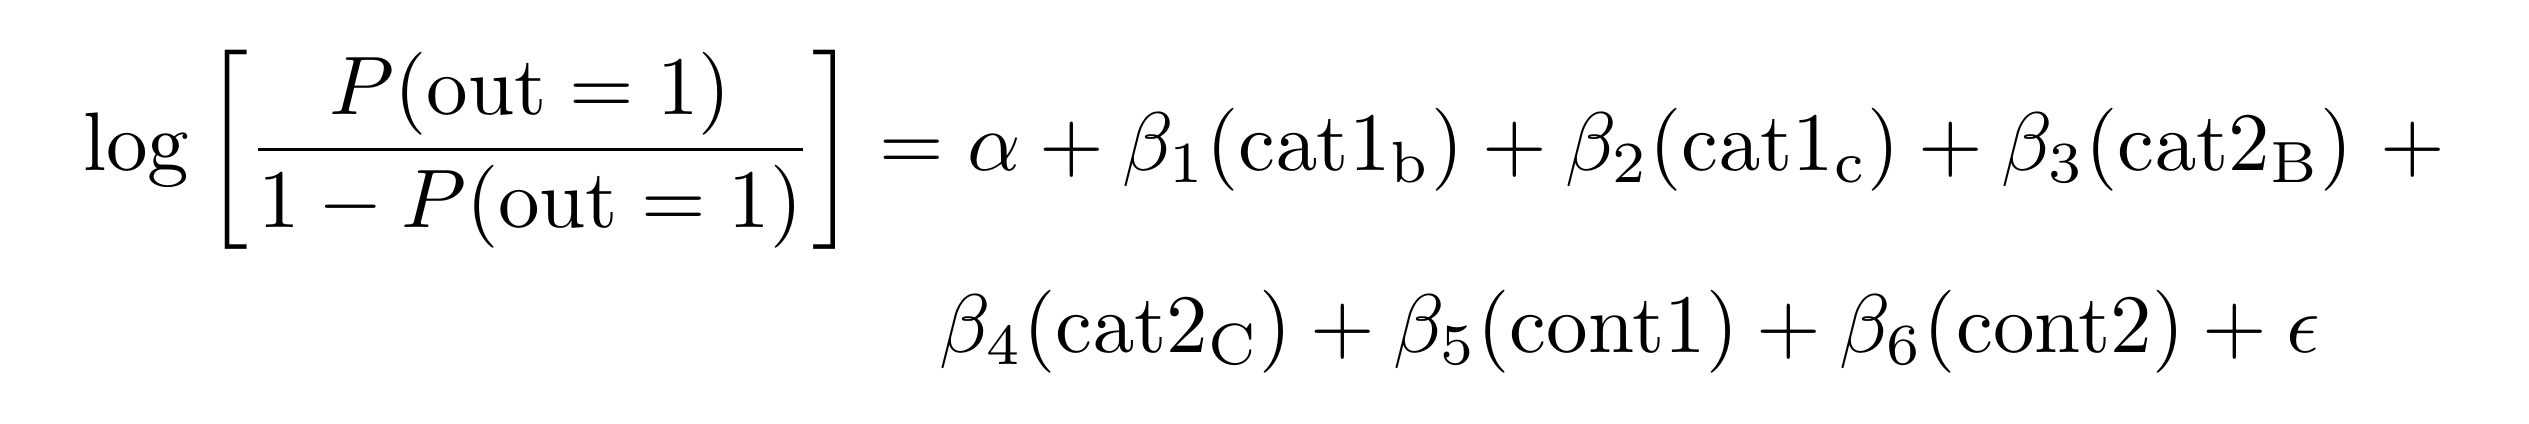
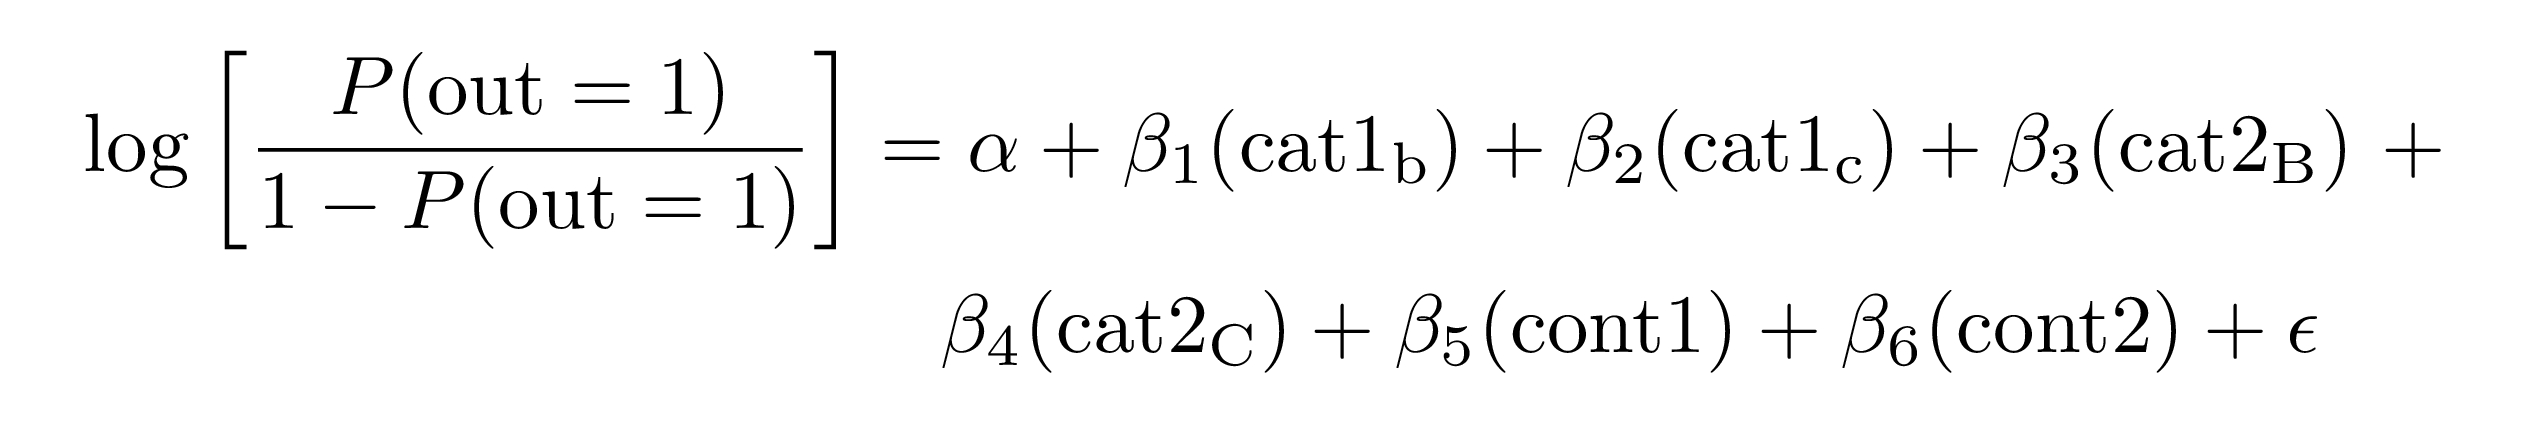
Switch all \text{}s to \operatorname{} because #57

diff --git a/README.md b/README.md
@@ -50,7 +50,7 @@ mod1 <- lm(mpg ~ cyl + disp, mtcars)
 # Give the results to extract_eq
 extract_eq(mod1)
 #> $$
-#> \text{mpg} = \alpha + \beta_{1}(\text{cyl}) + \beta_{2}(\text{disp}) + \epsilon
+#> \operatorname{mpg} = \alpha + \beta_{1}(\operatorname{cyl}) + \beta_{2}(\operatorname{disp}) + \epsilon
 #> $$
 ```
 
@@ -63,7 +63,7 @@ syntax:
 mod2 <- lm(mpg ~ ., mtcars)
 extract_eq(mod2)
 #> $$
-#> \text{mpg} = \alpha + \beta_{1}(\text{cyl}) + \beta_{2}(\text{disp}) + \beta_{3}(\text{hp}) + \beta_{4}(\text{drat}) + \beta_{5}(\text{wt}) + \beta_{6}(\text{qsec}) + \beta_{7}(\text{vs}) + \beta_{8}(\text{am}) + \beta_{9}(\text{gear}) + \beta_{10}(\text{carb}) + \epsilon
+#> \operatorname{mpg} = \alpha + \beta_{1}(\operatorname{cyl}) + \beta_{2}(\operatorname{disp}) + \beta_{3}(\operatorname{hp}) + \beta_{4}(\operatorname{drat}) + \beta_{5}(\operatorname{wt}) + \beta_{6}(\operatorname{qsec}) + \beta_{7}(\operatorname{vs}) + \beta_{8}(\operatorname{am}) + \beta_{9}(\operatorname{gear}) + \beta_{10}(\operatorname{carb}) + \epsilon
 #> $$
 ```
 
@@ -76,7 +76,7 @@ variables as subscripts:
 mod3 <- lm(Sepal.Length ~ Sepal.Width + Species, iris)
 extract_eq(mod3)
 #> $$
-#> \text{Sepal.Length} = \alpha + \beta_{1}(\text{Sepal.Width}) + \beta_{2}(\text{Species}_{\text{versicolor}}) + \beta_{3}(\text{Species}_{\text{virginica}}) + \epsilon
+#> \operatorname{Sepal.Length} = \alpha + \beta_{1}(\operatorname{Sepal.Width}) + \beta_{2}(\operatorname{Species}_{\operatorname{versicolor}}) + \beta_{3}(\operatorname{Species}_{\operatorname{virginica}}) + \epsilon
 #> $$
 ```
 
@@ -95,7 +95,7 @@ d <- data.frame(cat1 = rep(letters[1:3], 100),
 mod4 <- lm(out ~ cont1 + cat2 + cont2 + cat1, d)
 extract_eq(mod4)
 #> $$
-#> \text{out} = \alpha + \beta_{1}(\text{cont1}) + \beta_{2}(\text{cat2}_{\text{B}}) + \beta_{3}(\text{cat2}_{\text{C}}) + \beta_{4}(\text{cont2}) + \beta_{5}(\text{cat1}_{\text{b}}) + \beta_{6}(\text{cat1}_{\text{c}}) + \epsilon
+#> \operatorname{out} = \alpha + \beta_{1}(\operatorname{cont1}) + \beta_{2}(\operatorname{cat2}_{\operatorname{B}}) + \beta_{3}(\operatorname{cat2}_{\operatorname{C}}) + \beta_{4}(\operatorname{cont2}) + \beta_{5}(\operatorname{cat1}_{\operatorname{b}}) + \beta_{6}(\operatorname{cat1}_{\operatorname{c}}) + \epsilon
 #> $$
 ```
 
@@ -111,9 +111,9 @@ the right-hand side of the equation using `terms_per_line` (defaults to
 extract_eq(mod2, wrap = TRUE)
 #> $$
 #> \begin{aligned}
-#> \text{mpg} &= \alpha + \beta_{1}(\text{cyl}) + \beta_{2}(\text{disp}) + \beta_{3}(\text{hp})\ + \\
-#> &\quad \beta_{4}(\text{drat}) + \beta_{5}(\text{wt}) + \beta_{6}(\text{qsec}) + \beta_{7}(\text{vs})\ + \\
-#> &\quad \beta_{8}(\text{am}) + \beta_{9}(\text{gear}) + \beta_{10}(\text{carb}) + \epsilon
+#> \operatorname{mpg} &= \alpha + \beta_{1}(\operatorname{cyl}) + \beta_{2}(\operatorname{disp}) + \beta_{3}(\operatorname{hp})\ + \\
+#> &\quad \beta_{4}(\operatorname{drat}) + \beta_{5}(\operatorname{wt}) + \beta_{6}(\operatorname{qsec}) + \beta_{7}(\operatorname{vs})\ + \\
+#> &\quad \beta_{8}(\operatorname{am}) + \beta_{9}(\operatorname{gear}) + \beta_{10}(\operatorname{carb}) + \epsilon
 #> \end{aligned}
 #> $$
 ```
@@ -124,8 +124,8 @@ extract_eq(mod2, wrap = TRUE)
 extract_eq(mod2, wrap = TRUE, terms_per_line = 6)
 #> $$
 #> \begin{aligned}
-#> \text{mpg} &= \alpha + \beta_{1}(\text{cyl}) + \beta_{2}(\text{disp}) + \beta_{3}(\text{hp}) + \beta_{4}(\text{drat}) + \beta_{5}(\text{wt})\ + \\
-#> &\quad \beta_{6}(\text{qsec}) + \beta_{7}(\text{vs}) + \beta_{8}(\text{am}) + \beta_{9}(\text{gear}) + \beta_{10}(\text{carb}) + \epsilon
+#> \operatorname{mpg} &= \alpha + \beta_{1}(\operatorname{cyl}) + \beta_{2}(\operatorname{disp}) + \beta_{3}(\operatorname{hp}) + \beta_{4}(\operatorname{drat}) + \beta_{5}(\operatorname{wt})\ + \\
+#> &\quad \beta_{6}(\operatorname{qsec}) + \beta_{7}(\operatorname{vs}) + \beta_{8}(\operatorname{am}) + \beta_{9}(\operatorname{gear}) + \beta_{10}(\operatorname{carb}) + \epsilon
 #> \end{aligned}
 #> $$
 ```
@@ -140,18 +140,18 @@ using `operator_location = "end"` or `operator_location = "start"`:
 extract_eq(mod2, wrap = TRUE, terms_per_line = 4, operator_location = "start")
 #> $$
 #> \begin{aligned}
-#> \text{mpg} &= \alpha + \beta_{1}(\text{cyl}) + \beta_{2}(\text{disp}) + \beta_{3}(\text{hp})\\
-#> &\quad + \beta_{4}(\text{drat}) + \beta_{5}(\text{wt}) + \beta_{6}(\text{qsec}) + \beta_{7}(\text{vs})\\
-#> &\quad + \beta_{8}(\text{am}) + \beta_{9}(\text{gear}) + \beta_{10}(\text{carb}) + \epsilon
+#> \operatorname{mpg} &= \alpha + \beta_{1}(\operatorname{cyl}) + \beta_{2}(\operatorname{disp}) + \beta_{3}(\operatorname{hp})\\
+#> &\quad + \beta_{4}(\operatorname{drat}) + \beta_{5}(\operatorname{wt}) + \beta_{6}(\operatorname{qsec}) + \beta_{7}(\operatorname{vs})\\
+#> &\quad + \beta_{8}(\operatorname{am}) + \beta_{9}(\operatorname{gear}) + \beta_{10}(\operatorname{carb}) + \epsilon
 #> \end{aligned}
 #> $$
 ```
 
 <img src="man/figures/README-example-wrap-longer-location-preview-1.png" width="100%" />
 
-By default, all text in the equation is wrapped in `\text{}`. You can
-optionally have the variables themselves be italicized (i.e. not be
-wrapped in `\text{}`) with `ital_vars = TRUE`:
+By default, all text in the equation is wrapped in `\operatorname{}`.
+You can optionally have the variables themselves be italicized (i.e. not
+be wrapped in `\operatorname{}`) with `ital_vars = TRUE`:
 
 ``` r
 extract_eq(mod2, wrap = TRUE, ital_vars = TRUE)
@@ -208,7 +208,7 @@ You can return actual numeric coefficients instead of Greek letters with
 ``` r
 extract_eq(mod1, use_coefs = TRUE)
 #> $$
-#> \text{mpg} = 34.66 - 1.59(\text{cyl}) - 0.02(\text{disp}) + \epsilon
+#> \operatorname{mpg} = 34.66 - 1.59(\operatorname{cyl}) - 0.02(\operatorname{disp}) + \epsilon
 #> $$
 ```
 
@@ -221,7 +221,7 @@ FALSE`:
 ``` r
 extract_eq(mod1, use_coefs = TRUE, fix_signs = FALSE)
 #> $$
-#> \text{mpg} = 34.66 + -1.59(\text{cyl}) + -0.02(\text{disp}) + \epsilon
+#> \operatorname{mpg} = 34.66 + -1.59(\operatorname{cyl}) + -0.02(\operatorname{disp}) + \epsilon
 #> $$
 ```
 
@@ -234,10 +234,10 @@ extract_eq(mod2, wrap = TRUE, terms_per_line = 3,
            use_coefs = TRUE, fix_signs = FALSE)
 #> $$
 #> \begin{aligned}
-#> \text{mpg} &= 12.3 + -0.11(\text{cyl}) + 0.01(\text{disp})\ + \\
-#> &\quad -0.02(\text{hp}) + 0.79(\text{drat}) + -3.72(\text{wt})\ + \\
-#> &\quad 0.82(\text{qsec}) + 0.32(\text{vs}) + 2.52(\text{am})\ + \\
-#> &\quad 0.66(\text{gear}) + -0.2(\text{carb}) + \epsilon
+#> \operatorname{mpg} &= 12.3 + -0.11(\operatorname{cyl}) + 0.01(\operatorname{disp})\ + \\
+#> &\quad -0.02(\operatorname{hp}) + 0.79(\operatorname{drat}) + -3.72(\operatorname{wt})\ + \\
+#> &\quad 0.82(\operatorname{qsec}) + 0.32(\operatorname{vs}) + 2.52(\operatorname{am})\ + \\
+#> &\quad 0.66(\operatorname{gear}) + -0.2(\operatorname{carb}) + \epsilon
 #> \end{aligned}
 #> $$
 ```
@@ -260,8 +260,8 @@ mod5 <- glm(out ~ ., data = d, family = binomial(link = "logit"))
 extract_eq(mod5, wrap = TRUE)
 #> $$
 #> \begin{aligned}
-#> \log\left[ \frac { P( \text{out} = \text{1} ) }{ 1 - P( \text{out} = \text{1} ) } \right] &= \alpha + \beta_{1}(\text{cat1}_{\text{b}}) + \beta_{2}(\text{cat1}_{\text{c}}) + \beta_{3}(\text{cat2}_{\text{B}})\ + \\
-#> &\quad \beta_{4}(\text{cat2}_{\text{C}}) + \beta_{5}(\text{cont1}) + \beta_{6}(\text{cont2}) + \epsilon
+#> \log\left[ \frac { P( \operatorname{out} = \operatorname{1} ) }{ 1 - P( \operatorname{out} = \operatorname{1} ) } \right] &= \alpha + \beta_{1}(\operatorname{cat1}_{\operatorname{b}}) + \beta_{2}(\operatorname{cat1}_{\operatorname{c}}) + \beta_{3}(\operatorname{cat2}_{\operatorname{B}})\ + \\
+#> &\quad \beta_{4}(\operatorname{cat2}_{\operatorname{C}}) + \beta_{5}(\operatorname{cont1}) + \beta_{6}(\operatorname{cont2}) + \epsilon
 #> \end{aligned}
 #> $$
 ```
